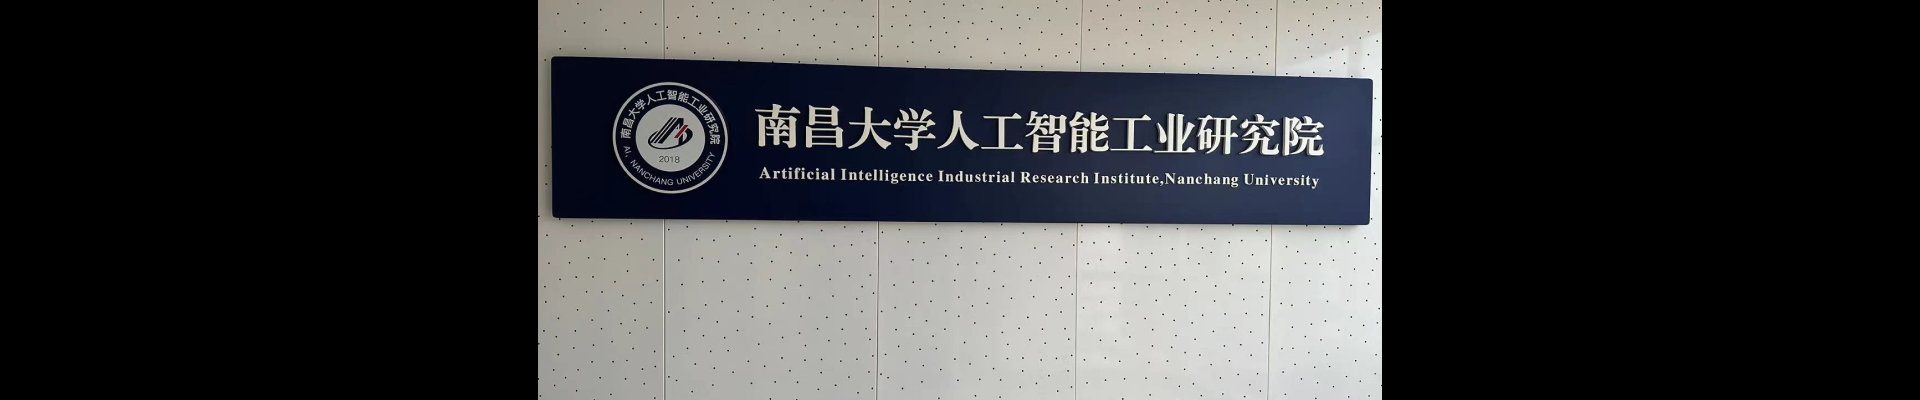
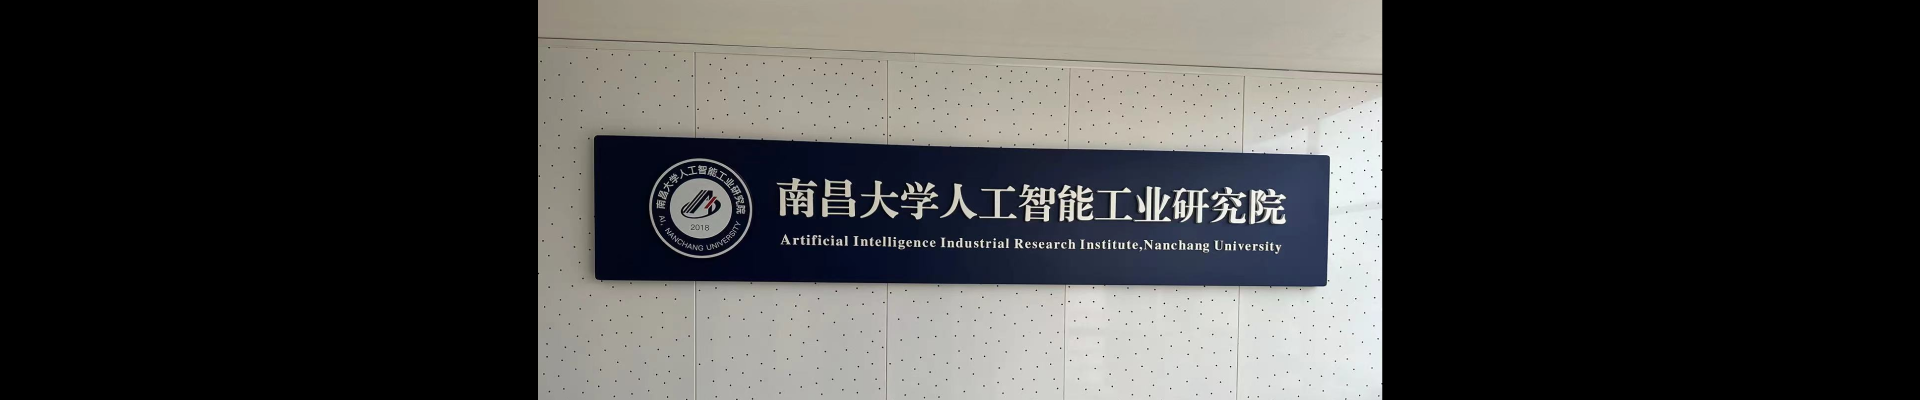
💄 调整轮播图

Changed region(s): [[0.2812, 0.06, 0.7188, 0.75], [0.3438, 0.99, 0.375, 1.0]]

diff --git a/src/components/Nav/Nav.tsx b/src/components/Nav/Nav.tsx
@@ -18,7 +18,7 @@ const Nav: FC = () => {
   return (
     <nav
       style={{
-        backgroundColor: '#25406C',
+        backgroundColor: '#272F42',
         height: '60px',
         display: 'flex',
         justifyContent: 'center',

diff --git a/src/components/Nav/index.css b/src/components/Nav/index.css
@@ -14,7 +14,7 @@
 }
 
 .subTag {
-    background-color: #25406c;
+    background-color: #272F42;
     color: #fff;
     padding-left: 30px;
     padding-right: 30px;

diff --git a/src/pages/home/index.css b/src/pages/home/index.css
@@ -11,7 +11,8 @@
 }
 
 .item {
-    object-fit: contain;
+    min-height: 400px;
+        object-fit: cover;
 }
 
 .swiper-button-prev,
